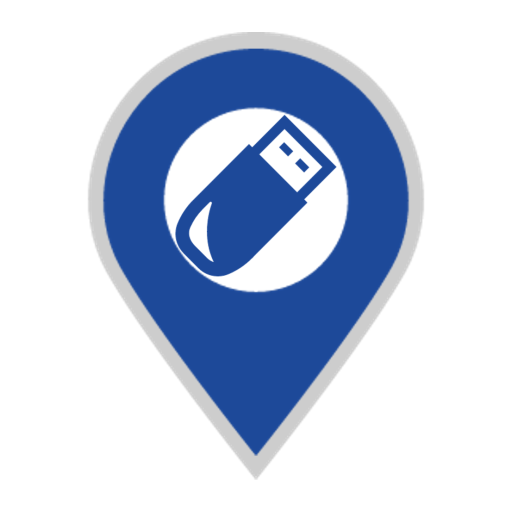
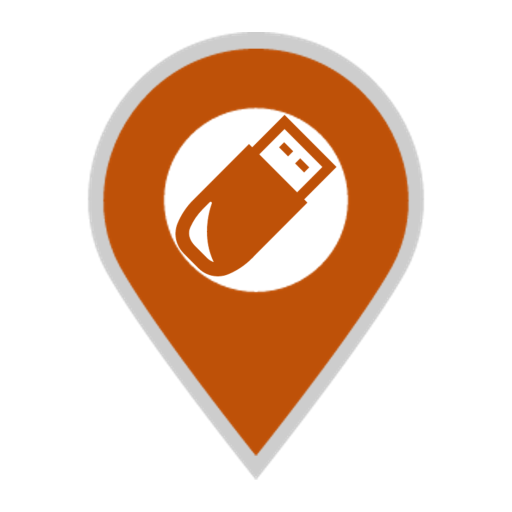
マップ周り変えた
デバッグできませんでした^q^

Changed region(s): [[0.1875, 0.0938, 0.8125, 0.9062]]

diff --git a/app/src/main/java/com/example/s20143037/usbseccontroller/SearchMapActivity.java b/app/src/main/java/com/example/s20143037/usbseccontroller/SearchMapActivity.java
@@ -143,21 +143,18 @@ public class SearchMapActivity extends FragmentActivity implements OnMapReadyCal
                 r=r/2;
                 r=r*1300*1000*1000;
                 float[] results = new float[3];
-                Location.distanceBetween(
-                        x1,
-                        y1,
-                        resultLat,
-                        resultLng,
-                        results);
+                Location.distanceBetween(x1, y1, resultLat, resultLng, results);
 
                 float zoom =(float) (r/10);
                 zoom=21-zoom;
-                mMap.addMarker(new MarkerOptions().position(location).icon(mIcon));
+                mMarker = mMap.addMarker(new MarkerOptions().position(location).icon(mIcon).title("予測紛失地点"));
+                mMarker.showInfoWindow();
                 mMap.moveCamera(CameraUpdateFactory.newLatLng(location));
                 CircleOptions circleOptions=new CircleOptions()
                         .center(location)
-                        .strokeColor(Color.TRANSPARENT)
-                        .fillColor(R.color.icons)
+                        .strokeColor(Color.rgb(252, 183, 169))
+                        .strokeWidth(2)
+                        .fillColor(Color.argb(127,252, 216, 169))
                         .radius(results[0]*1.1);
                 mMap.addCircle(circleOptions);
                 CameraUpdate cUpdate = CameraUpdateFactory.newLatLngZoom(location, zoom);
